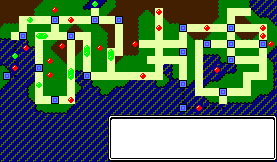
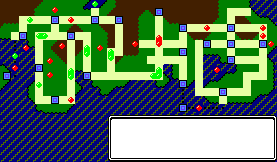
added victory road and path

diff --git a/crystal.js b/crystal.js
@@ -5,15 +5,16 @@ var crystal = {
     font_size: "22px",
     locations: {
         // Cities
-        cherrygrove:  {x: 83,  y: 72, w: 8, h: 8, name: "Cherrygrove City"        },
-        violet:       {x: 67,  y: 32, w: 8, h: 8, name: "Violet City"             },
-        azalea_r33:   {x: 51,  y: 96, w: 8, h: 8, name: "Azalea Town\nRoute 33"   },
-        goldenrod:    {x: 35,  y: 64, w: 8, h: 8, name: "Goldenrod City"          },
-        ecruteak:     {x: 51,  y: 16, w: 8, h: 8, name: "Ecruteak City"           },
-        olivine_r40:  {x: 19,  y: 32, w: 8, h: 8, name: "Olivine City\nRoute 40"  },
-        cianwood:     {x: 3,   y: 72, w: 8, h: 8, name: "Cianwood City"           },
-        mahogany_r44: {x: 91,  y: 16, w: 8, h: 8, name: "Mahogany Town\nRoute 44" },
-        blackthorn:   {x: 115, y: 16, w: 8, h: 8, name: "Blackthorn City"         },
+        cherrygrove:   {x: 83,  y: 72, w: 8, h: 8, name: "Cherrygrove City"        },
+        violet:        {x: 67,  y: 32, w: 8, h: 8, name: "Violet City"             },
+        azalea_r33:    {x: 51,  y: 96, w: 8, h: 8, name: "Azalea Town\nRoute 33"   },
+        goldenrod:     {x: 35,  y: 64, w: 8, h: 8, name: "Goldenrod City"          },
+        ecruteak:      {x: 51,  y: 16, w: 8, h: 8, name: "Ecruteak City"           },
+        olivine_r40:   {x: 19,  y: 32, w: 8, h: 8, name: "Olivine City\nRoute 40"  },
+        cianwood:      {x: 3,   y: 72, w: 8, h: 8, name: "Cianwood City"           },
+        mahogany_r44:  {x: 91,  y: 16, w: 8, h: 8, name: "Mahogany Town\nRoute 44" },
+        blackthorn:    {x: 115, y: 16, w: 8, h: 8, name: "Blackthorn City"         },
+        indigoplateau: {x: 155, y: 8,  w: 8, h: 8, name: "Indigo Plateau"          },
 
         pallet:      {x: 179, y: 80,  w: 8, h: 8, name: "Pallet Town"          },
         viridian:    {x: 179, y: 48,  w: 8, h: 8, name: "Viridian City"        },
@@ -27,26 +28,28 @@ var crystal = {
         cinnabar:    {x: 179, y: 104, w: 8, h: 8, name: "Cinnabar Island"      },
         
         // Routes
-        r29_r45_r46:   {x: 107, y: 48, w: 8,  h: 14, name: "Route 29\nRoute 45 / 46" },
-        r30_r31:       {x: 83,  y: 44, w: 8,  h: 14, name: "Route 30\nRoute 31"      },
-        alphruins_r32: {x: 67,  y: 67, w: 8,  h: 14, name: "Ruins of Alph\nRoute 32" },
-        r34:           {x: 35,  y: 81, w: 8,  h: 8,  name: "Route 34"                },
-        r35_r36:       {x: 35,  y: 32, w: 14, h: 8,  name: "Route 35\nRoute 36"      },
-        r38_r39:       {x: 26,  y: 16, w: 8,  h: 8,  name: "Route 38\nRoute 39"      },
-        r41:           {x: 11,  y: 52, w: 8,  h: 8,  name: "Route 41"                },
-        ragelake_r43:  {x: 91,  y: 0,  w: 8,  h: 8,  name: "Lake of Rage\nRoute 43"  },
+        r29_r45_r46:   {x: 107,  y: 48, w: 8,  h: 14, name: "Route 29\nRoute 45 / 46" },
+        r30_r31:       {x: 83,   y: 44, w: 8,  h: 14, name: "Route 30\nRoute 31"      },
+        alphruins_r32: {x: 67,   y: 67, w: 8,  h: 14, name: "Ruins of Alph\nRoute 32" },
+        r34:           {x: 35,   y: 81, w: 8,  h: 8,  name: "Route 34"                },
+        r35_r36:       {x: 35,   y: 32, w: 14, h: 8,  name: "Route 35\nRoute 36"      },
+        r38_r39:       {x: 26,   y: 16, w: 8,  h: 8,  name: "Route 38\nRoute 39"      },
+        r41:           {x: 11,   y: 52, w: 8,  h: 8,  name: "Route 41"                },
+        ragelake_r43:  {x: 91,   y: 0,  w: 8,  h: 8,  name: "Lake of Rage\nRoute 43"  },
+        r26_r27:       {x: 149,  y: 66, w: 14, h: 14, name: "Route 26\nRoute 27"      },
 
         // Important locations
-        darkcave:               {x: 96,  y: 44, w: 8, h: 8, name: "Dark Cave"                },
-        puzzlechambers:         {x: 58,  y: 42, w: 8, h: 8, name: "Puzzle Chambers"          },
-        unioncave:              {x: 67,  y: 96, w: 8, h: 8, name: "Union Cave"               },
-        departmentstore:        {x: 46,  y: 57, w: 8, h: 8, name: "Department Store"         },
-        radiotower_underground: {x: 46,  y: 71, w: 8, h: 8, name: "Radio Tower\nUnderground" },
-        tintower_burnedtower:   {x: 51,  y: 6,  w: 8, h: 8, name: "Tin Tower\nBurned Tower"  },
-        mtmortar_r42:           {x: 67,  y: 16, w: 8, h: 8, name: "Mt. Mortar\nRoute 42"     },
-        lighthouse:             {x: 22,  y: 44, w: 8, h: 8, name: "Olivine's Lighthouse"     },
-        ssaqua:                 {x: 213, y: 66, w: 8, h: 8, name: "S.S. Aqua"                },
-        whirlislands:           {x: 11,  y: 64, w: 8, h: 8, name: "Whirl Islands"            },
+        darkcave:               {x: 96,  y: 44, w: 8, h: 8,  name: "Dark Cave"                      },
+        puzzlechambers:         {x: 58,  y: 42, w: 8, h: 8,  name: "Puzzle Chambers"                },
+        unioncave:              {x: 67,  y: 96, w: 8, h: 8,  name: "Union Cave"                     },
+        departmentstore:        {x: 46,  y: 57, w: 8, h: 8,  name: "Department Store"               },
+        radiotower_underground: {x: 46,  y: 71, w: 8, h: 8,  name: "Radio Tower\nUnderground"       },
+        tintower_burnedtower:   {x: 51,  y: 6,  w: 8, h: 8,  name: "Tin Tower\nBurned Tower"        },
+        mtmortar_r42:           {x: 67,  y: 16, w: 8, h: 8,  name: "Mt. Mortar\nRoute 42"           },
+        lighthouse:             {x: 22,  y: 44, w: 8, h: 8,  name: "Olivine's Lighthouse"           },
+        ssaqua:                 {x: 213, y: 66, w: 8, h: 8,  name: "S.S. Aqua"                      },
+        whirlislands:           {x: 11,  y: 64, w: 8, h: 8,  name: "Whirl Islands"                  },
+        victoryroad_reception:  {x: 155, y: 34, w: 8, h: 14, name: "Victory Road\nLeague Reception" },
     },
 
     // Undefined fields:
